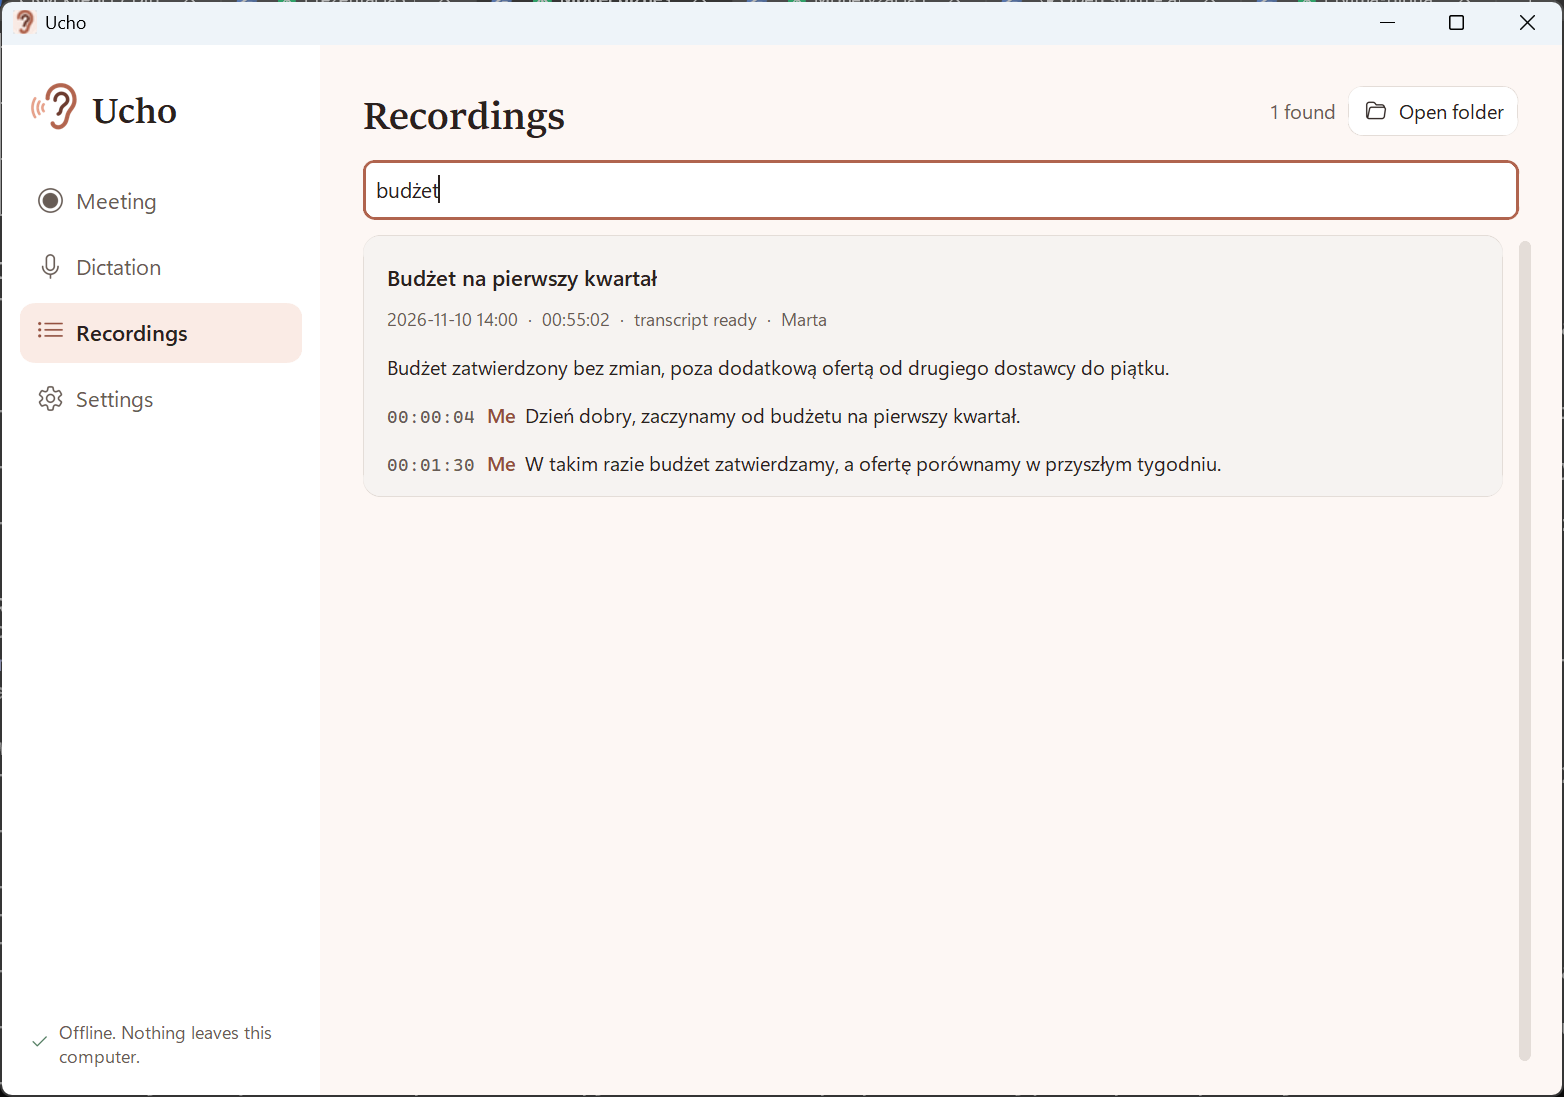
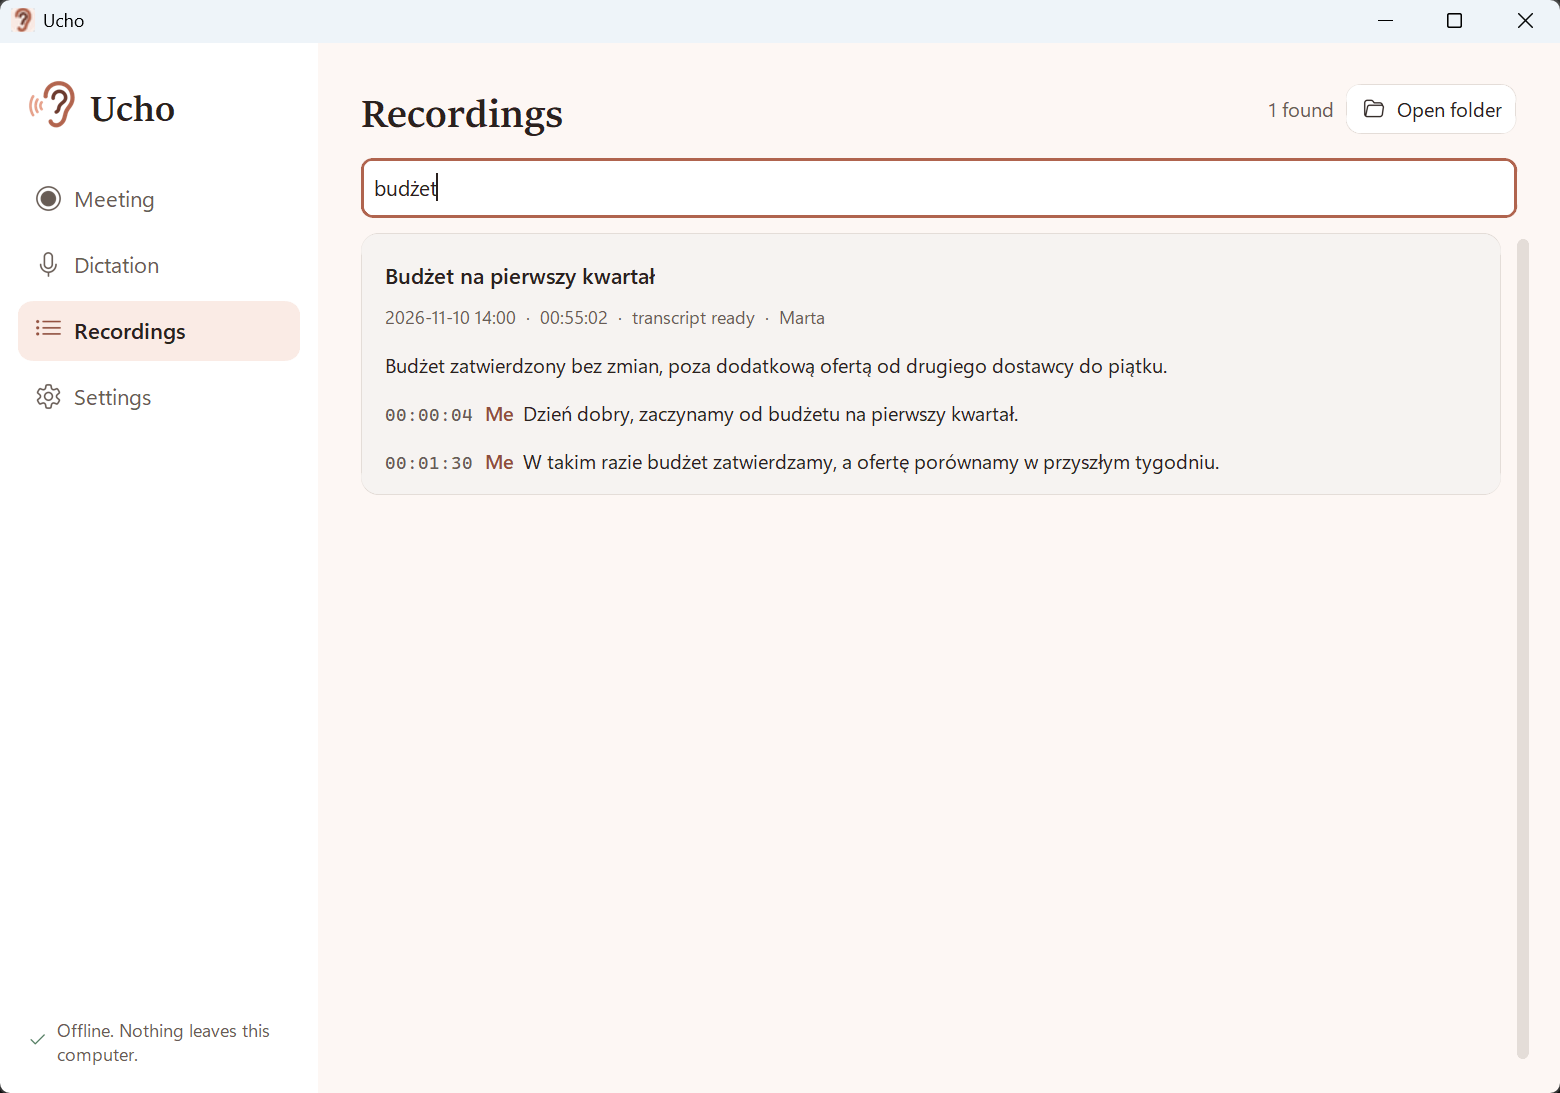
Screenshots cropped inside the window frame

diff --git a/tools/screenshots.py b/tools/screenshots.py
@@ -198,7 +198,9 @@ def main(argv: list[str]) -> int:
             target.update()
             time.sleep(0.25)
             target.update()
-            box = window_rect(app.window_handle(target))
+            left, top, right, bottom = window_rect(app.window_handle(target))
+            # 2 px inside the frame: the outermost row can show what lies behind the window.
+            box = (left + 2, top + 2, right - 2, bottom - 2)
             ImageGrab.grab(bbox=box, all_screens=True).save(args.out / f"{name}{args.suffix}.png",
                                                             optimize=True)
             target.attributes("-topmost", False)
